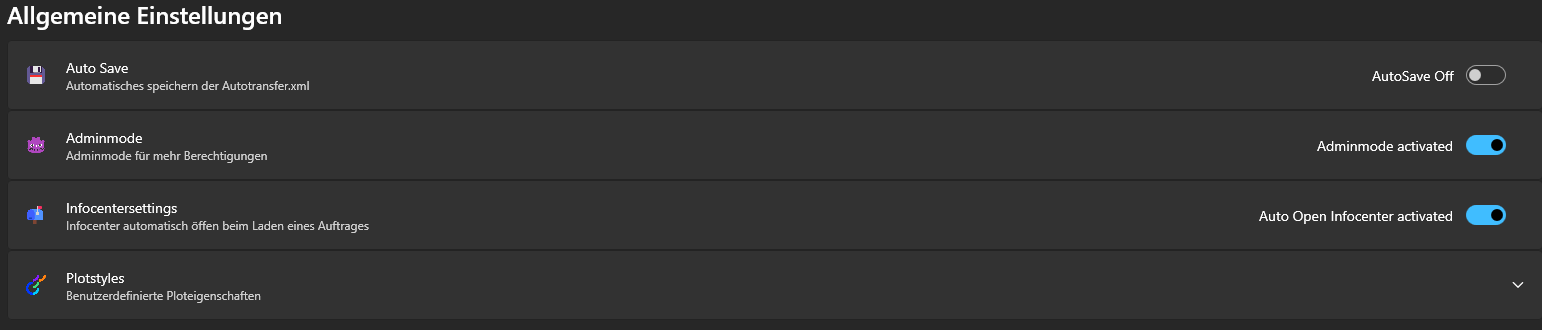
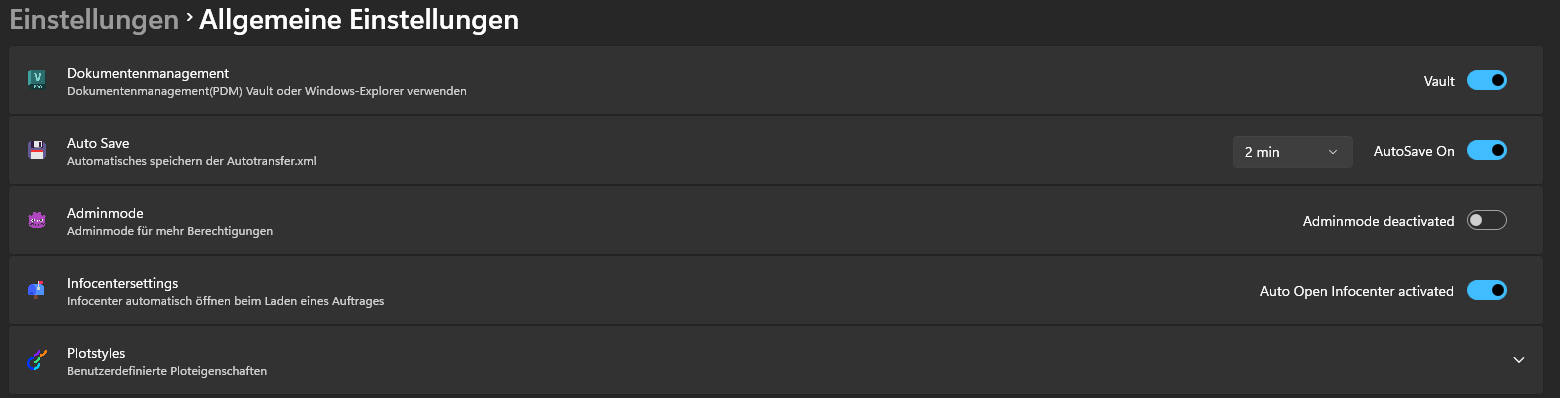
update help localMode

diff --git a/LiftDataManager/Docs/de/06-Einstellungen/01-Allgemeine Einstellungen/01-PDM-System/PDM-System.md b/LiftDataManager/Docs/de/06-Einstellungen/01-Allgemeine Einstellungen/01-PDM-System/PDM-System.md
@@ -1,0 +1,8 @@
+# PDM-System
+
+>Auswahl des PDM-System Vault oder Windows-Explorer.
+>Der Lokale Pfad wird im CarFrameProgram festgelegt dieser wird vom LiftDataManager übernommen.
+
+![image](/LiftDataManager/Docs/HelpImages/image193.png)  
+
+[//]: # (Tags: PDM-System | Vault | Local Mode | Windows-Explorer)  

diff --git a/LiftDataManager/Docs/de/06-Einstellungen/01-Allgemeine Einstellungen/Allgemeine Einstellungen.md b/LiftDataManager/Docs/de/06-Einstellungen/01-Allgemeine Einstellungen/Allgemeine Einstellungen.md
@@ -4,4 +4,4 @@
 
 ![image](/LiftDataManager/Docs/HelpImages/image93.png)  
 
-[//]: # (Tags: Allgemeine Einstellungen | Auto Save | Adminmode  | Infocentersettings | Plotstyles)  
+[//]: # (Tags: Allgemeine Einstellungen | Local Mode | Auto Save | Admin Mode  | Infocentersettings | Plotstyles)  
